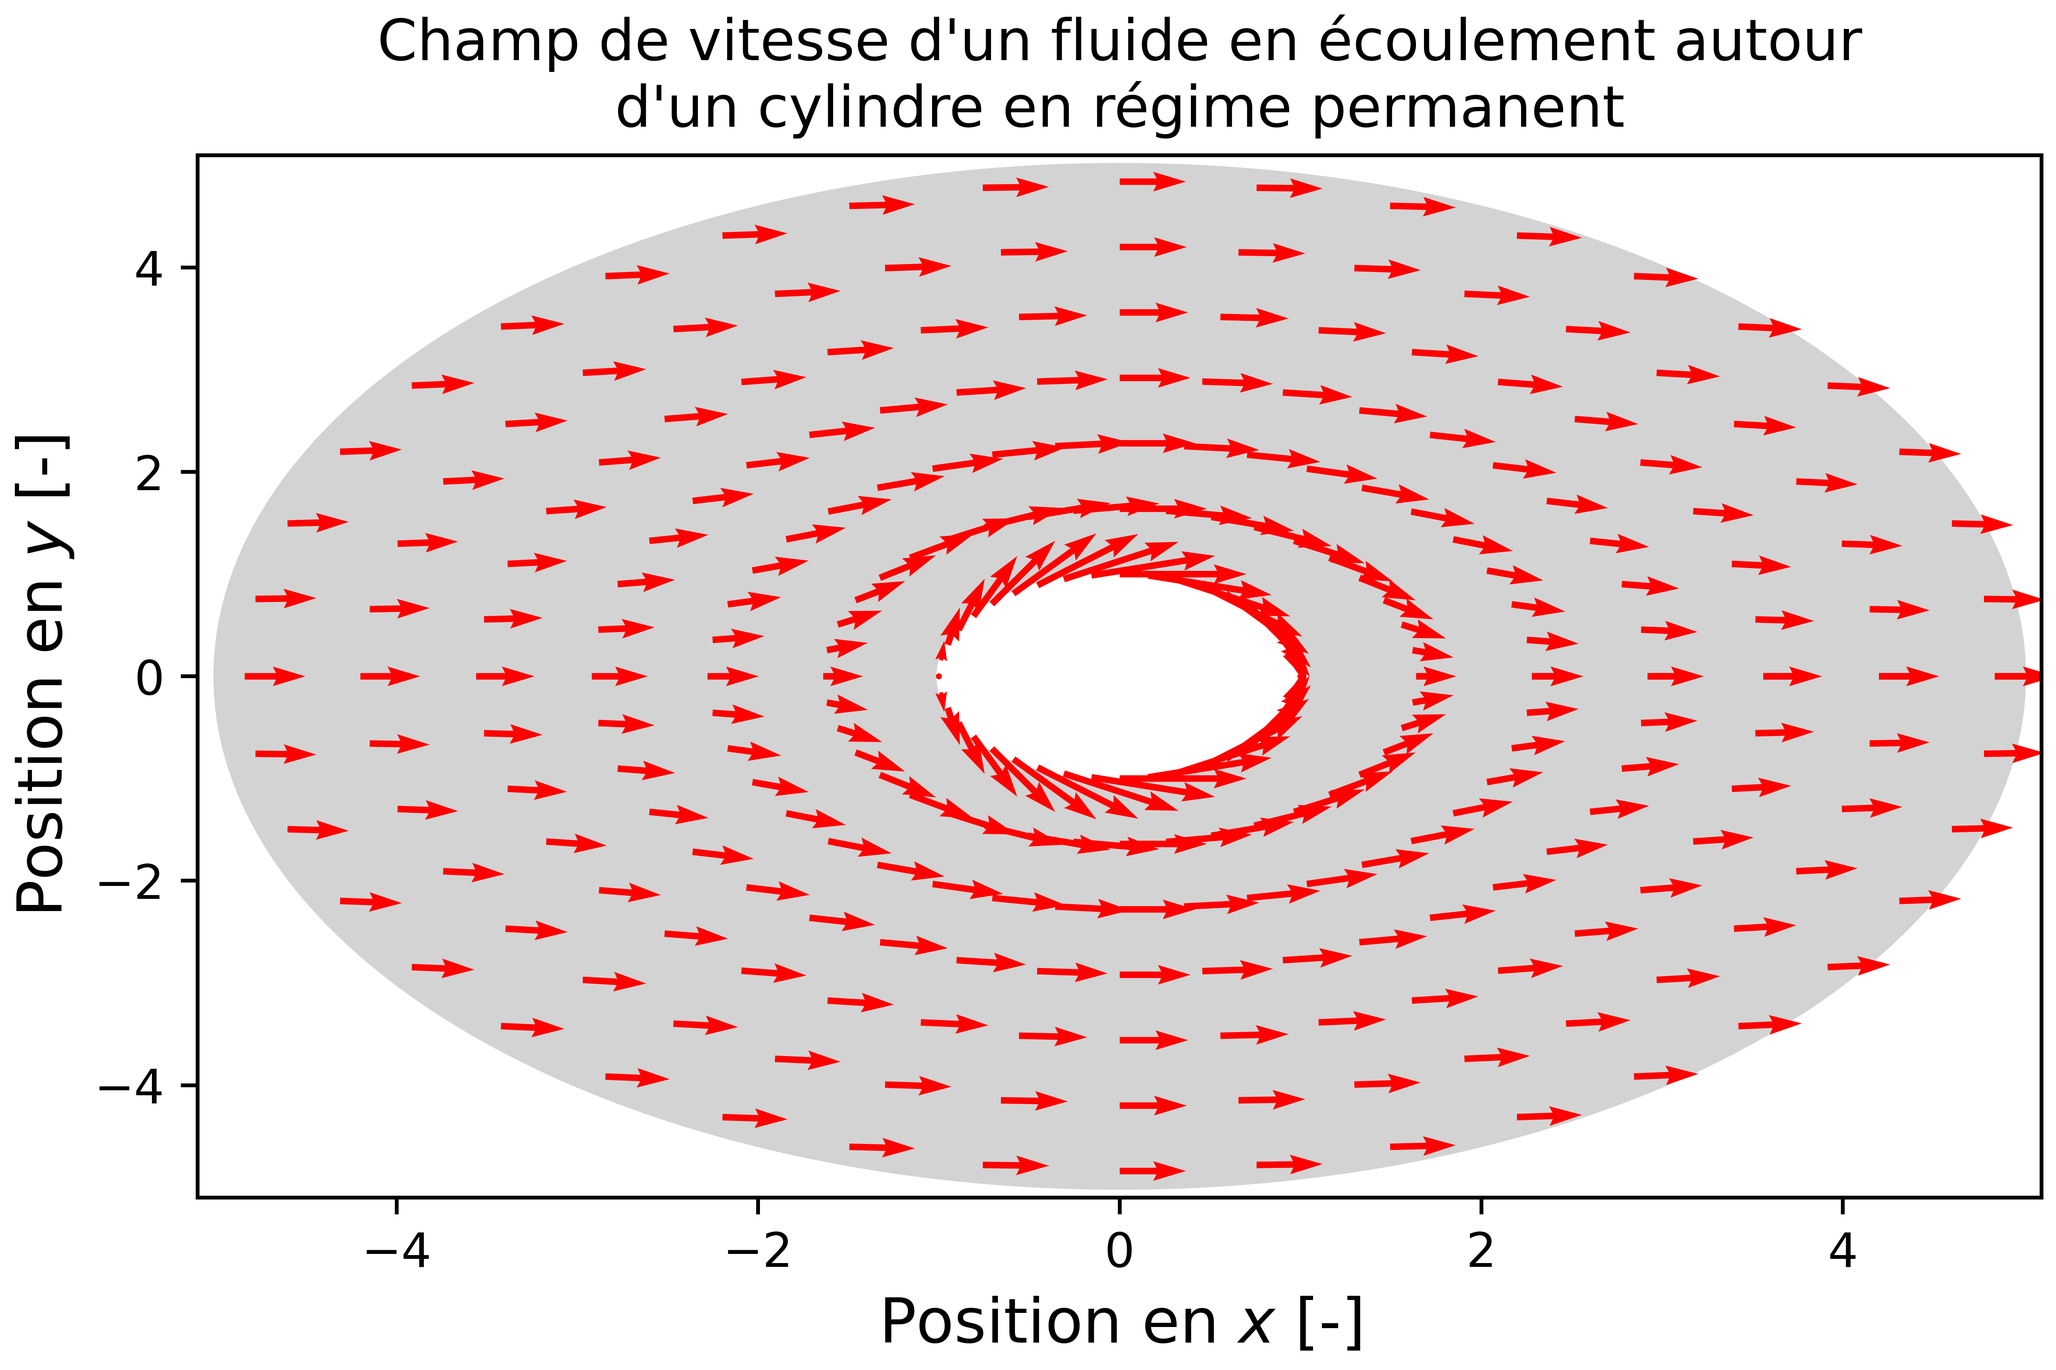
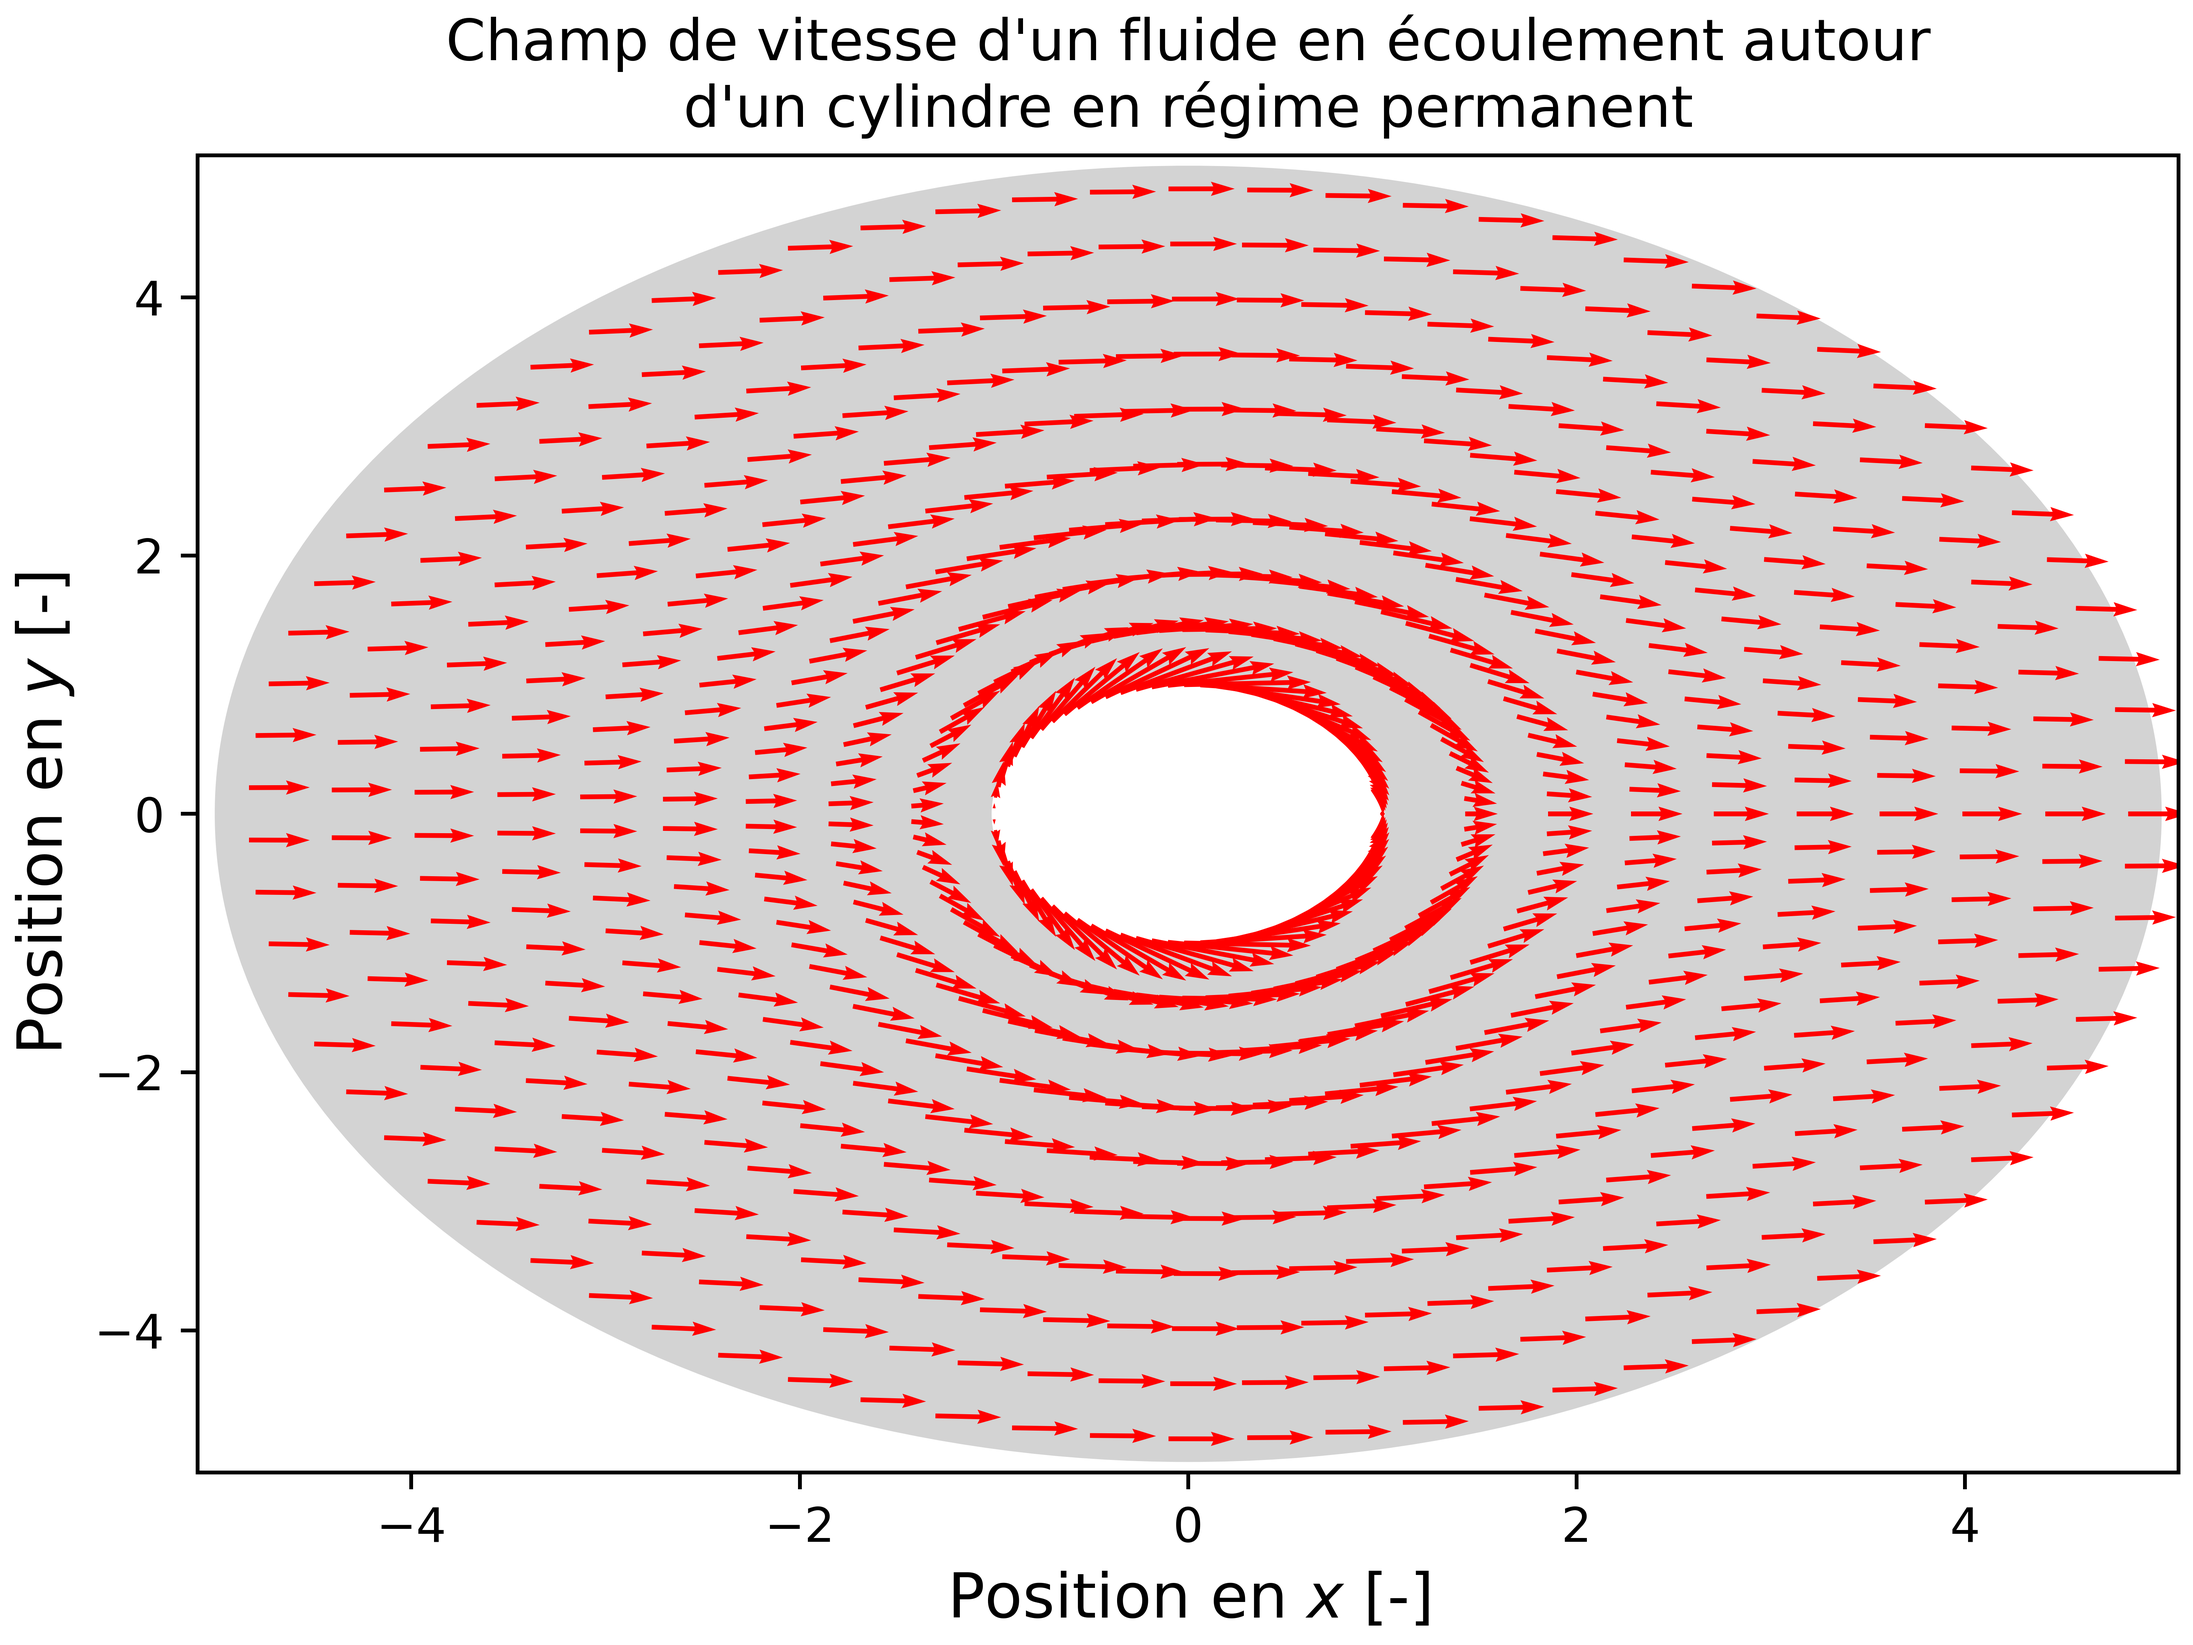
contourf fonctionnel

diff --git a/Code/Analyse/test_projet.py b/Code/Analyse/test_projet.py
@@ -31,8 +31,8 @@ class parametres():
 
 prm = parametres()
 
-nr = 51
-ntheta = 61
+nr = 151
+ntheta = 151
 
 psi_num = mdf_assemblage(nr,ntheta, prm)
 
@@ -91,8 +91,9 @@ ax4.set_ylabel(r'Position en $y$ [-]', size=13)
 ax4.axis([-5.1, 5.1, -5.1, 5.1])
 fig4.savefig("champ_de_vitesse.png", dpi=900)
 
-psi_exact_mat = k2ij_matrix(ntheta, psi_exact)
+psi_num_mat = np.abs(k2ij_matrix(ntheta, psi_num))
 fig22, ax22 = plt.subplots(constrained_layout=True)
-ax22.contourf(x, y, psi_exact_mat, 1000)
+ax22.contourf(x, y, psi_num_mat, 1000)
+fig22.savefig("ligne_courant.png", dpi=1200)
 
 plt.show()

diff --git a/Code/Fonctions/projet_fct.py b/Code/Fonctions/projet_fct.py
@@ -54,7 +54,6 @@ def k2ij_matrix(ntheta, vect):
 
     for k in range(len(vect)):
         i, j  = k2ij(k, ntheta)
-
         mat[-j-1, i] = vect[k]
 
     return mat
